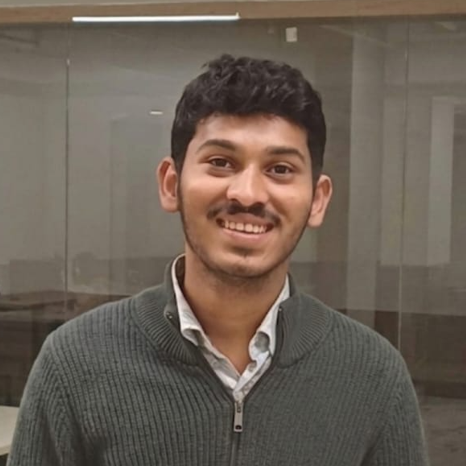
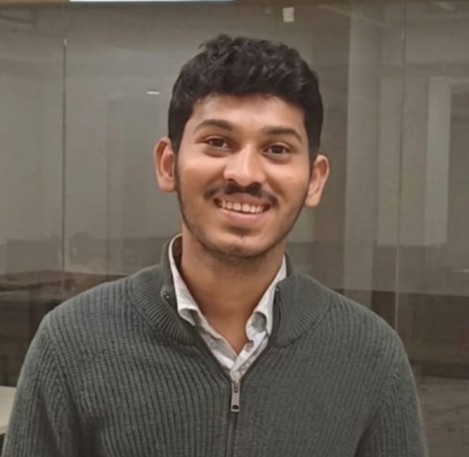
Refactor code structure for improved readability and maintainability

diff --git a/index.html b/index.html
@@ -62,24 +62,31 @@
 <section>
     <h2>Skills</h2>
     <ul>
-        <li><strong>Languages:</strong>Java, Python, JavaScript, HTML, CSS</li>
-        <li><strong>Web Development:</strong> React, Node.js, Express.js, Next.js</li>
-        <li><strong>Databases:</strong> MySQL, MongoDB</li>
-        <li><strong>Tools:</strong> VS Code, Git, Eclipse, PyCharm</li>
+        <li><strong>Programming Languages:</strong> Java, JavaScript, SQL</li>
+        <li><strong>Database:</strong> MySQL</li>
+        <li><strong>Web Development:</strong> React.js, Vue.js, Node.js, Express.js, REST APIs, JWT Authentication</li>
+        <li><strong>AI / ML & Automation:</strong> OpenCV, Generative AI Fundamentals, Prompt Engineering, LLM API Integration (OpenAI), AI-assisted Development Tools (GitHub Copilot), Agentic AI Basics, n8n</li>
+        <li><strong>Tools & Platforms:</strong> Git, GitHub, Postman, VS Code, Eclipse, PyCharm</li>
     </ul>
 </section>
 
 <!-- ================= EXPERIENCE ================= -->
 <section>
-    <h2>Experience</h2>
-    <p><strong>Mentor Intern – Smart Interviews</strong></p>
-    <p>DSA Training Program | May – Present</p>
+    <h2>
+        Experience
+        <span class="more-link" data-modal="experience">more info</span>
+    </h2>
+    <div class="experience-header">
+        <p class="experience-title"><strong>ValueLabs | Software Engineering Intern</strong></p>
+        <p class="experience-date">July 2026 – Present</p>
+    </div>
+    <p><strong>Tech Stack:</strong> Vue.js, Node.js, Express.js, Postman, Git</p>
+    <p><strong>Currently Learning:</strong> Docker, CI/CD</p>
     <ul>
-        <li>Selected as a Mentor Intern for Smart Interviews’ college DSA training program.</li>
-        <li>Mentoring junior students in Data Structures and Algorithms.</li>
-        <li>Assisting one instructor along with a team of mentors in guiding around 130 students.</li>
-        <li>Helping students understand DSA concepts, solve coding problems, and improve problem-solving skills.</li>
-        <li>Supporting practice sessions by clearing doubts and explaining problem-solving approaches.</li>
+        <li>Developed a full-stack CRUD-based Tool Link Registry using Vue.js, Node.js, Express.js.</li>
+        <li>Built and integrated REST APIs for creating, viewing, updating, and deleting tool links.</li>
+        <li>Tested APIs using Postman and managed code with Git.</li>
+        <li>Collaborated with mentors through daily task updates in an Agile team environment.</li>
     </ul>
 </section>
 
@@ -300,6 +307,15 @@ const MODAL_DATA = {
             }
         ]
     },
+    experience: {
+        title: "Experience",
+        images: [
+            "images/experience/pic1.jpeg",
+            "images/experience/pic2.jpeg",
+            "images/experience/pic3.jpeg",
+            "images/experience/pic4.png"
+        ]
+    },
     responsibility: {
         title: "Position of Responsibility",
         main: {
@@ -378,6 +394,8 @@ function generateModalContent(type) {
             <h3>${block.title}</h3>
             ${renderImageGrid(block.images)}
         `).join("");
+    } else if (type === "experience") {
+        html += renderImageGrid(data.images);
     } else if (type === "responsibility") {
         const r = data.main;
         html += `
@@ -404,10 +422,12 @@ function openModal(type) {
     const content = document.getElementById("modal-content");
     content.innerHTML = generateModalContent(type);
     modal.classList.remove("hidden");
+    document.body.classList.add("modal-open");
 }
 
 function closeModal() {
     document.getElementById("modal-overlay").classList.add("hidden");
+    document.body.classList.remove("modal-open");
 }
 
 // Event delegation for modal triggers and close

diff --git a/style.css b/style.css
@@ -4,13 +4,15 @@
 :root {
     --color-primary: #2c6dd7;
     --color-text: #3c2d2d;
-    --color-border: #4b2525fc;
+    /* Change this value to update only the "Heyy" hero heading color. */
+    --color-hero-heading: #165692;
+    --color-border: #165692 ;
     --color-bg: #ffffff;
-    --color-project-bg: #fdfdfd;
+    --color-project-bg: #f0f3f4;
     --color-modal-bg: #eef5fb;
     --color-modal-overlay: rgba(0, 0, 0, 0.55);
     --color-hero-bg: #ffffff;
-    --color-page-bg: #f3e6c0;
+    --color-page-bg: #faf0cb;
     --border-radius: 25px;
     --transition-smooth: 0.25s ease;
 }
@@ -27,11 +29,11 @@ body {
 }
 
 h2 {
-    margin-bottom: 12px;
+    margin-bottom: 22px;
 }
 
 p {
-    margin: 6px 0;
+    margin: px 0;
 }
 
 ul {
@@ -53,9 +55,9 @@ li {
     margin: 56px 30px;
     padding: 48px;
     background-color: var(--color-bg);
-    border: 1px solid #f7cf0a;
+    border: 5px solid #f7cf0a;
     border-radius: 28px;
-    box-shadow: 0 10px 30px rgba(0, 0, 0, 0.08);
+    box-shadow: 0 10px 30px rgba(209, 33, 33, 0.08);
     position: relative;
     overflow: hidden;
     min-height: 56svh;
@@ -90,6 +92,7 @@ li {
     gap: 2px;
     white-space: pre-wrap;
     line-height: 1.05;
+    color: var(--color-hero-heading);
 }
 
 .hero-heading span:first-child {
@@ -132,7 +135,7 @@ li {
 }
 
 .hero-image {
-    max-width: 35%;
+    max-width: 50%;
     display: flex;
     justify-content: center;
     position: absolute;
@@ -145,7 +148,7 @@ li {
 }
 
 .hero.is-animating .hero-image {
-    transform: translate(calc(-50% + clamp(20rem, 36vw, 34rem)), -50%) scale(1);
+    transform: translate(calc(-50% + clamp(14rem, 30vw, 28rem)), -50%) scale(1);
 }
 
 
@@ -153,8 +156,8 @@ li {
    PROFILE IMAGE
 ========================= */
 .profile-pic {
-    width: 200px;
-    height: 200px;
+    width: 250px;
+    height: 250px;
     border-radius: 50%;
     object-fit: cover;
     object-position: center 15%;
@@ -243,6 +246,25 @@ section:hover {
 .project h3 {
     margin-bottom: 6px;
     color: #333;
+}
+
+.experience-header {
+    display: flex;
+    align-items: flex-start;
+    justify-content: space-between;
+    gap: 16px;
+}
+
+.experience-title,
+.experience-date {
+    margin: 0 0 12px;
+}
+
+.experience-date {
+    white-space: nowrap;
+    text-align: right;
+    flex-shrink: 0;
+    margin-right: 12px;
 }
 
 
@@ -361,6 +383,15 @@ a:hover {
     background-color: var(--color-modal-bg);
 }
 
+.modal-document-image {
+    height: auto;
+    object-fit: contain;
+    display: block;
+    width: min(100%, 360px);
+    margin-left: auto;
+    margin-right: auto;
+}
+
 
 /* =========================
    DISABLE SCROLL (MODAL)
@@ -461,6 +492,17 @@ body.modal-open {
         font-size: 15px;
         margin-bottom: 10px;
         line-height: 1.6;
+    }
+
+    .experience-header {
+        flex-direction: column;
+        gap: 4px;
+    }
+
+    .experience-date {
+        text-align: left;
+        white-space: normal;
+        margin-bottom: 8px;
     }
 
     .project {
